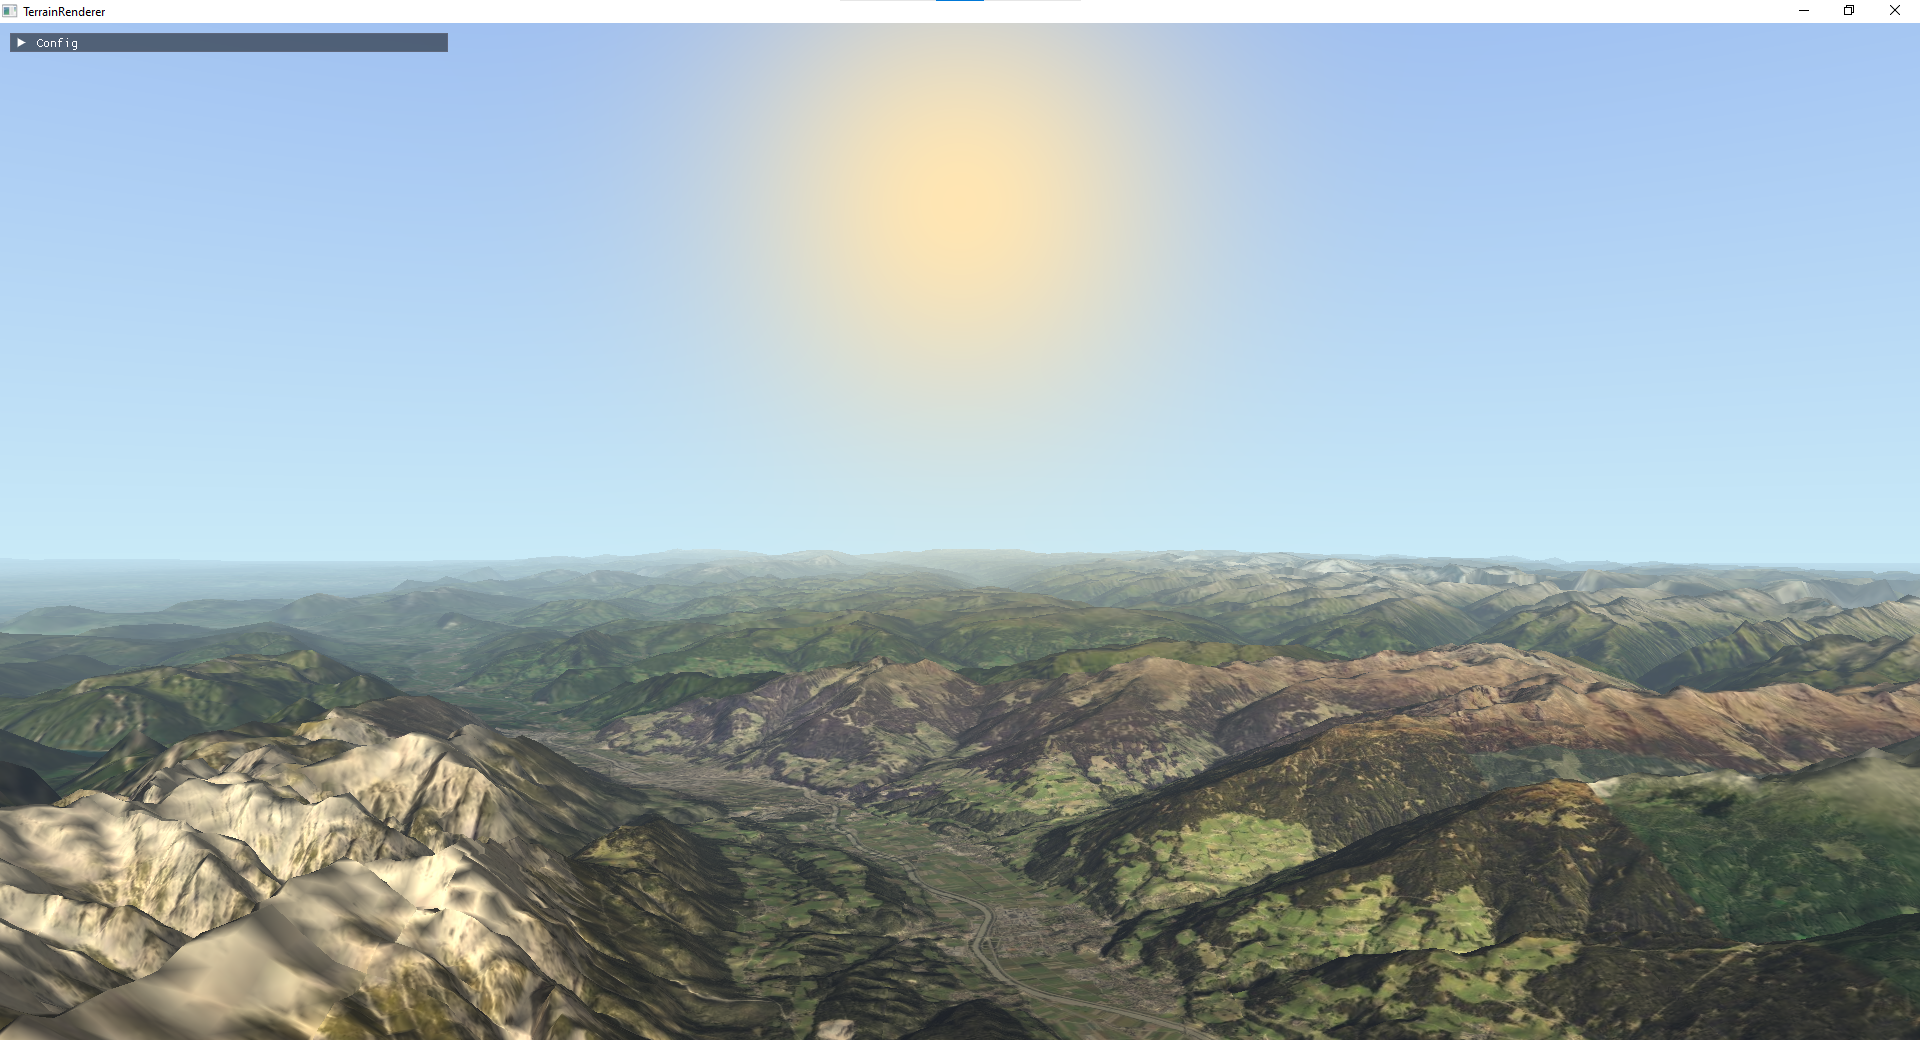
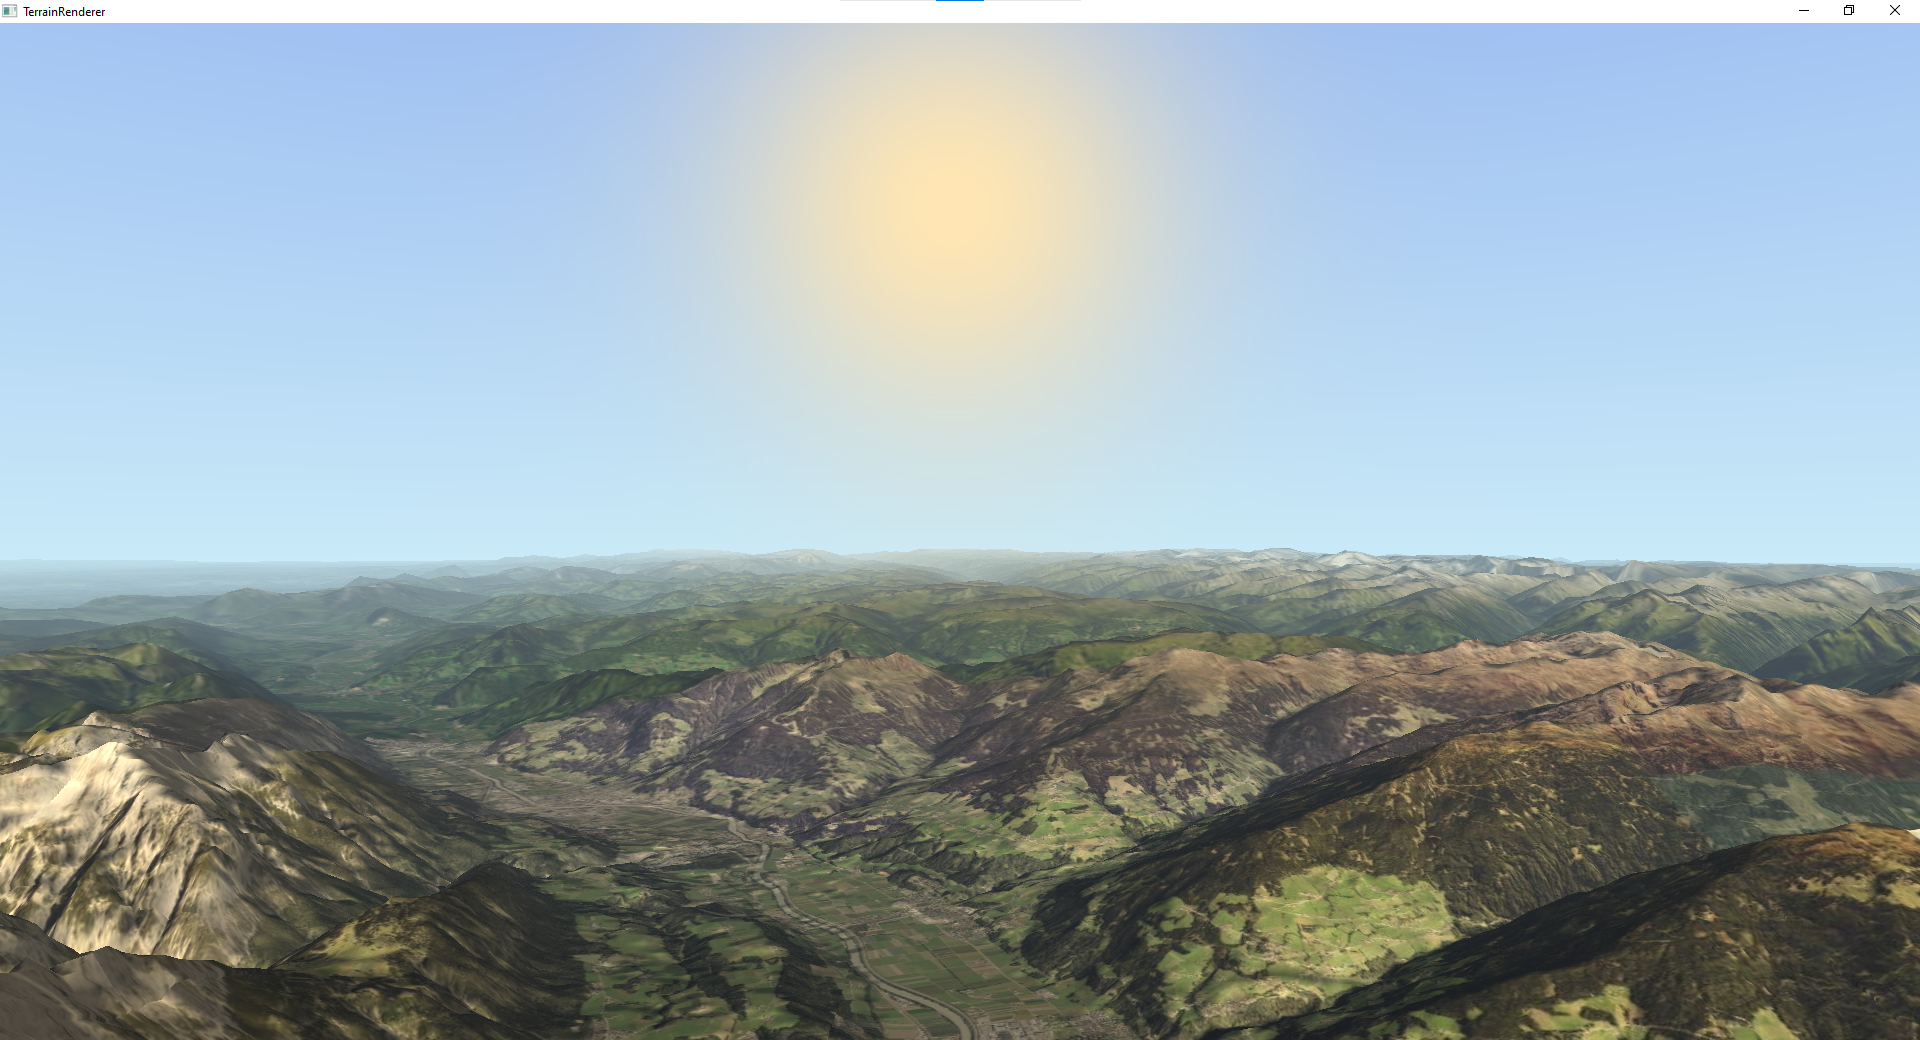
Make rendering of ui optional

Changed region(s): [[0.0, 0.5231, 1.0, 1.0], [0.0, 0.0308, 0.25, 0.0615]]

diff --git a/app/App.cpp b/app/App.cpp
@@ -44,7 +44,12 @@ void App::render(float dt)
 
   render_terrain();
 
-  render_ui();
+  if (m_render_ui) {
+    render_ui();
+  }
+
+  ImGui::Render();
+  ImGui_ImplOpenGL3_RenderDrawData(ImGui::GetDrawData());
 
   SDL_GL_SwapWindow(m_window);
 }
@@ -58,7 +63,7 @@ void App::render_ui()
   ImGui::SetNextWindowPos(ImVec2(10, 10));
 
   ImGui::SetNextWindowSize(ImVec2(400, 200), ImGuiCond_FirstUseEver);
-  ImGui::Begin("Config", nullptr, window_flags);
+  ImGui::Begin("Options", nullptr, window_flags);
 
   glm::vec3 pos = m_camera.local_position();
   glm::vec2 pos2 = {pos.x, pos.z};
@@ -105,9 +110,6 @@ void App::render_ui()
     m_terrain.reload_shaders();
   }
   ImGui::End();
-
-  ImGui::Render();
-  ImGui_ImplOpenGL3_RenderDrawData(ImGui::GetDrawData());
 }
 
 void App::run()
@@ -144,6 +146,9 @@ void App::read_input(float dt)
             break;
           case SDLK_r:
             m_terrain.reload_shaders();
+            break;
+          case SDLK_i:
+            m_render_ui = !m_render_ui;
             break;
         }
         break;

diff --git a/app/App.h b/app/App.h
@@ -52,6 +52,7 @@ class App : public Window
   bool m_quit{false};
   bool m_paused{false};
   bool m_mousedown{false};
+  bool m_render_ui{true};
   float m_speed{100.0f};
   FirstPersonCamera m_camera;
   TerrainRenderer m_terrain;
